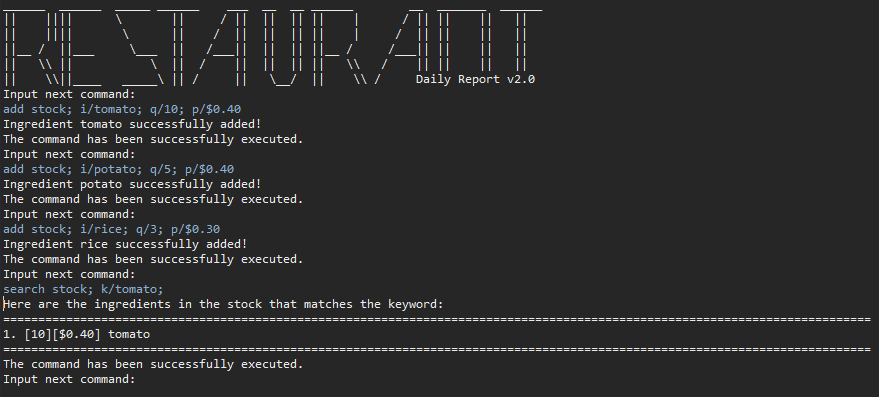
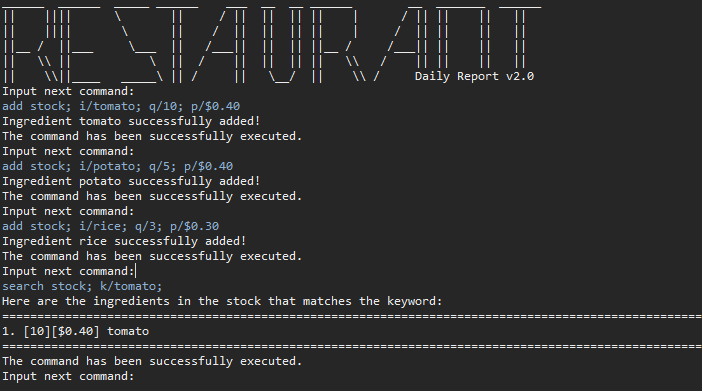
Update searchStockFunction sequence diagram image.

Changed region(s): [[0.0, 0.0, 1.0, 0.9821]]

diff --git a/docs/DeveloperGuide.md b/docs/DeveloperGuide.md
@@ -36,7 +36,7 @@ Step 2. The user executes `add stock; i/tomato; q/10; p/$0.40;` command to add a
 Step 3. The user can now search against the current `stock` to see if an ingredient is stored in the `stock`. The user now executes `search stock; k/tomato;`, which will display the following result in the image. 
 
 <p align="center">
-  <img src="https://user-images.githubusercontent.com/59989652/77916570-d70b7000-72cb-11ea-8778-40b0f5ec0e9b.PNG">
+  <img src="https://user-images.githubusercontent.com/59989652/77921374-47b58b00-72d2-11ea-84bd-fe0c790b1d59.PNG">
 </p>
 
 The following sequence diagram shows how the search operation works:
@@ -156,7 +156,7 @@ The feature implements the following operations:
 
 The following class diagram shows the structures relevant to the "search reservation" feature:
 <p align="center">
-    <img src="ClassDiagramforSearchReservation.png">
+    <img src="documentations\Sibing\ClassDiagramforSearchReservation.png">
 </p>
 
 Given below is an example usage scenario and how the search mechanism behaves at each step.
